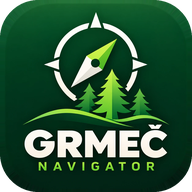
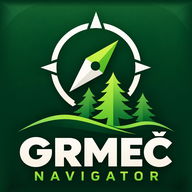
Ikona veća i bez bijelog okvira; v1.7.6
- Sve ikone neprovidne do ruba: providni uglovi legacy ikone su na Xiaomi/HyperOS
  launcheru postajali bijeli okvir s umanjenom ikonom
- Sadržaj (kompas + natpis) tijesno izrezan: adaptivna ~83 % vidljivog dijela
  (umetak 0), legacy/PWA 88 %; vinjeta originala utopljena u pozadinu

Claude-Session: https://claude.ai/code/session_01TMbpHPWBybhsWScU1N6BFB

diff --git a/tests/js/ikone.test.js b/tests/js/ikone.test.js
@@ -22,6 +22,9 @@ t('Android: mipmap po gustini, adaptivna pozadina u boji ikone, splash s ikonom'
     const p = 'android/app/src/main/res/mipmap-' + d + '/';
     assert.deepStrictEqual(dim(p + 'ic_launcher.png'), [s, s]); assert.deepStrictEqual(dim(p + 'ic_launcher_round.png'), [s, s]); assert.deepStrictEqual(dim(p + 'ic_launcher_foreground.png'), [fg, fg]);
   }
+  // bez providnih piksela u uglovima (launcher ih puni bijelim okvirom) — PNG RGB bez alfe
+  for (const f of ['icon-192.png', 'icon-512.png', 'icon-maskable-512.png', 'android/app/src/main/res/mipmap-xxxhdpi/ic_launcher.png', 'android/app/src/main/res/mipmap-xxxhdpi/ic_launcher_foreground.png'])
+    assert.strictEqual(fs.readFileSync(R(f))[25], 2, f + ' mora biti RGB (bez alfa kanala)');
   const boje = fs.readFileSync(R('android/app/src/main/res/values/colors.xml'), 'utf8');
   assert.ok(boje.includes('<color name="ic_launcher_background">#02341C</color>') && boje.includes('<color name="colorSplash">#02341C</color>'));
   // <bitmap> na adaptivnu ikonu (mipmap-anydpi-v26 XML) ruši app pri pokretanju — samo PNG

diff --git a/static/js/terrain-layers.js b/static/js/terrain-layers.js
@@ -224,13 +224,13 @@ if (typeof window !== 'undefined') {
     const wrappedSettings = function() {
       oldSettings.apply(this, arguments);
       const label = document.getElementById('set-ver-txt');
-      if (label) label.textContent = 'v1.7.5';
+      if (label) label.textContent = 'v1.7.6';
     };
     wrappedSettings.__usfVersionFix = true;
     window._renderPostavke = wrappedSettings;
   }
   const badge = document.getElementById('meni-ver-badge');
-  if (badge) badge.textContent = 'Grmeč Navigator v1.7.5';
+  if (badge) badge.textContent = 'Grmeč Navigator v1.7.6';
 })();
 
 

diff --git a/tests/js/release-build.test.js b/tests/js/release-build.test.js
@@ -28,6 +28,6 @@ assert.match(activity, /postUpdate\("downloading"/);
 assert.match(activity, /getPackageArchiveInfo/);
 assert.match(adaptiveIcon, /@drawable\/ic_launcher_foreground_inset/);
 assert.match(roundAdaptiveIcon, /@drawable\/ic_launcher_foreground_inset/);
-assert.match(insetIcon, /android:insetLeft="17dp"/);
+assert.match(insetIcon, /android:insetLeft="0dp"/);
 
 console.log('Release/build provjere: 14 prošlo, 0 palo');

diff --git a/sw.js b/sw.js
@@ -2,7 +2,7 @@
 // Service Worker — Grmeč Navigator
 // Promijeni APP_VERSION pri svakom deploymentu → okida update
 // =====================================================================
-const APP_VERSION = '1.7.5';
+const APP_VERSION = '1.7.6';
 const APP_CACHE   = 'usf-app-v' + APP_VERSION;
 const TILE_CACHE  = 'usf-tiles-v1';
 const LIB_CACHE   = 'usf-lib-v1';

diff --git a/CLAUDE.md b/CLAUDE.md
@@ -84,8 +84,10 @@
   `slTrakaObris`: ista mreža/klasifikacija kao `slPoljaTeren`, pa površina = `lin.ha`).
   Sačuvana mjerenja NEMAJU bindPopup (zaustavlja dodir) — popup ide kroz `_kartaKlikIzvor`.
 - **Ikona**: izvor `FOREST_IKONA.png` (Grmeč Navigator); iz njega `icon-192/512`,
-  `icon-maskable-512` (80 % sigurna zona), `apple-touch-icon`, mipmap `ic_launcher*`
-  (adaptivna pozadina `#02341C`, umetak 17dp za kružnu masku), splash `drawable-nodpi/splash_logo.png`
+  `icon-maskable-512` (80 % sigurna zona), `apple-touch-icon`, mipmap `ic_launcher*`. Sve
+  NEPROVIDNO do ruba (providni uglovi ⇒ Xiaomi/HyperOS crta bijeli okvir i smanjuje ikonu);
+  adaptivni foreground: sadržaj ~83 % vidljivih 72dp, umetak 0, pozadina `#02341C`;
+  splash `drawable-nodpi/splash_logo.png`
   — `<bitmap>` NIKAD na `@mipmap/ic_launcher` (adaptive XML na API 26+ ⇒ pad pri pokretanju).
 - JS `alert/confirm/prompt` u APK-u: MainActivity `onJs*` s naslovom `app_name`
   ("Grmeč Navigator") — bez override-a WebView piše appassets.androidplatform.net.
